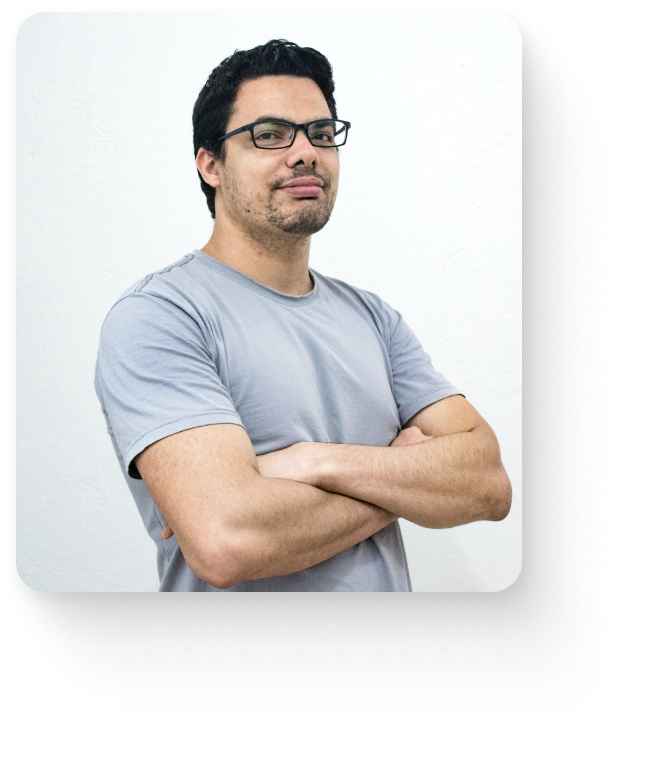
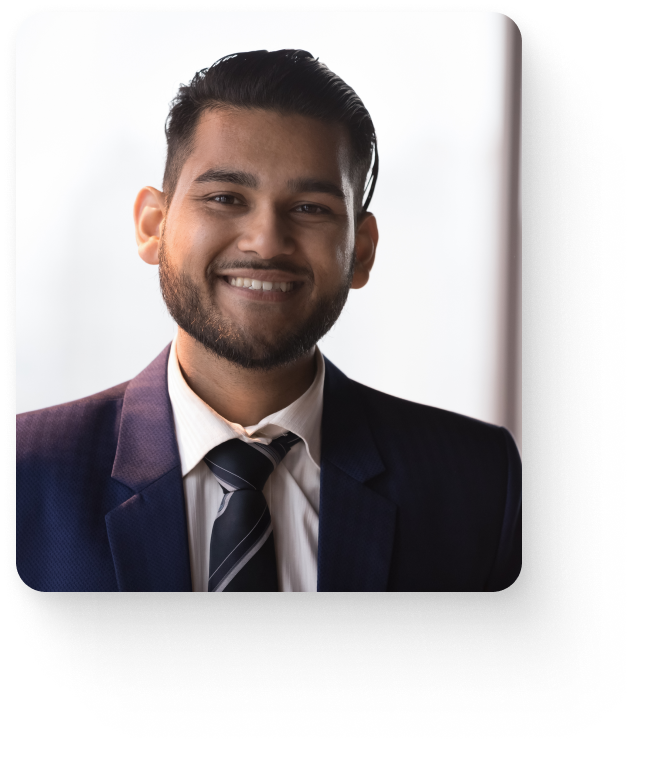
update mirko photo

diff --git a/pages/components/Services.jsx b/pages/components/Services.jsx
@@ -74,14 +74,14 @@ export default function Services() {
       </div>
       <div className={styles.cards}>
         <div className={styles.cardsList}>
-            <Carousel scrollMode="remainder" adaptiveHeight={true} renderBottomCenterControls={({nextSlide, previousSlide}) => {
+            <Carousel adaptiveHeight={true} renderBottomCenterControls={({nextSlide, previousSlide}) => {
             return (
             <div className={styles.controls}>
                 <Button variant="light" onClick={previousSlide}><Image src={arrowLeft} alt="boton para girar a la izquierda" /> </Button>
                 <Button variant="light" onClick={nextSlide}><Image src={arrowRight} alt="boton para girar a la derecha" /></Button> 
               </div>
             )
-          }} cellSpacing={25} disableEdgeSwiping slidesToShow={isMobile? 1 : 2.2}   renderCenterLeftControls={() => (null)} renderCenterRightControls={() => (null)} >
+          }} cellSpacing={25} disableEdgeSwiping slidesToShow={isMobile? 1 : 2}   renderCenterLeftControls={() => (null)} renderCenterRightControls={() => (null)} >
             {STAGES.slice(position).concat(STAGES.slice(0, position)).map(({ title, items, color, icon, background }) => (
               <Card key={title} title={title} items={items} color={color} icon={icons[icon]} background={background} />
             ))}
@@ -103,7 +103,7 @@ function Card({ title, items, color, background, icon }) {
         {items.map(item => (
           <li className={styles.cardItem} key={item}>{item}</li>
         ))}</ul>
-      <Image priority alt="service" key={title} src={icon} className={styles.cardImage} />
+      <Image priority={true} alt="service" key={title} src={icon} className={styles.cardImage} />
     </div>
   )
 }

diff --git a/pages/nosotros.jsx b/pages/nosotros.jsx
@@ -22,7 +22,7 @@ export default function Nosotros() {
       <div className={styles.hero}>
         <h1 className={styles.heading}><b>Conoce más</b> sobre nosotros</h1>
         <div className={styles.row}>
-          <Image priority className={styles.image} alt="images of Avantax employees" src={isMobile?  nosotrosMobile: nosotros } />
+          <Image priority={true} className={styles.image} alt="images of Avantax employees" src={isMobile?  nosotrosMobile: nosotros } />
           <p className={styles.paragraph}>Somos un grupo de profesionales peruanos comprometidos con el cierre de brechas de infraestructura en el país. Brindamos asesoría especializada en el mecanismo de <span>Obras por Impuestos (OxI)</span>, donde las empresas participan a través del canje del pago de sus impuestos por el financiamiento y ejecución de proyectos de construcción o mejora de infraestructura en la comunidad, como la construcción de carreteras, escuelas o parques públicos.<br /><br />
             A lo largo de nuestras trayectorias profesionales hemos articulado un portafolio de <span>más de 30 proyectos</span> de diversos sectores como salud, educación, transporte, seguridad ciudadana y electrificación, cuyo monto total de inversión supera <span>los 250 millones de soles.</span></p>
         </div>

diff --git a/pages/components/TeamCard.jsx b/pages/components/TeamCard.jsx
@@ -6,7 +6,7 @@ export default function TeamCard({ name, orientation, bio, image, role, color })
   return (
     <li className={`${styles.card} ${cardClassName}`}>
       <section className={styles.description}>
-        <Image priority align="right" alt={`${name}'s picture`}  src={image} className={`${styles.cardImage}`} />
+        <Image priority={true} align="right" alt={`${name}'s picture`}  src={image} className={`${styles.cardImage}`} />
           <div className={styles.details}>
             <h3 className={styles.name}>{name}</h3>
             <p style={{ color: color }} className={styles.role}>{role}</p>

diff --git a/pages/components/Services.module.scss b/pages/components/Services.module.scss
@@ -99,6 +99,19 @@
 
 
 @media only screen and (max-width: 600px) {
+  .cards {
+    display: flex;
+    flex-direction: column;
+    max-width: 827px;
+    overflow-x: none;
+    -ms-overflow-style: none;  /* IE and Edge */
+    scrollbar-width: none;  /* Firefox */
+      &::-webkit-scrollbar {
+        display: none;
+      }
+    height: 413px;
+  }
+
   .heading {
     font-style: normal;
     font-weight: 600;

diff --git a/pages/components/About.module.scss b/pages/components/About.module.scss
@@ -9,7 +9,6 @@
 }
 
 
-
 .image {
   background-attachment: fixed;
   background-position: center;
@@ -113,6 +112,7 @@
 
   .modal {
     padding: 24px 20px;
+    width: calc(100% - 30px);
     margin: 0;
     top: 50px;
   }
